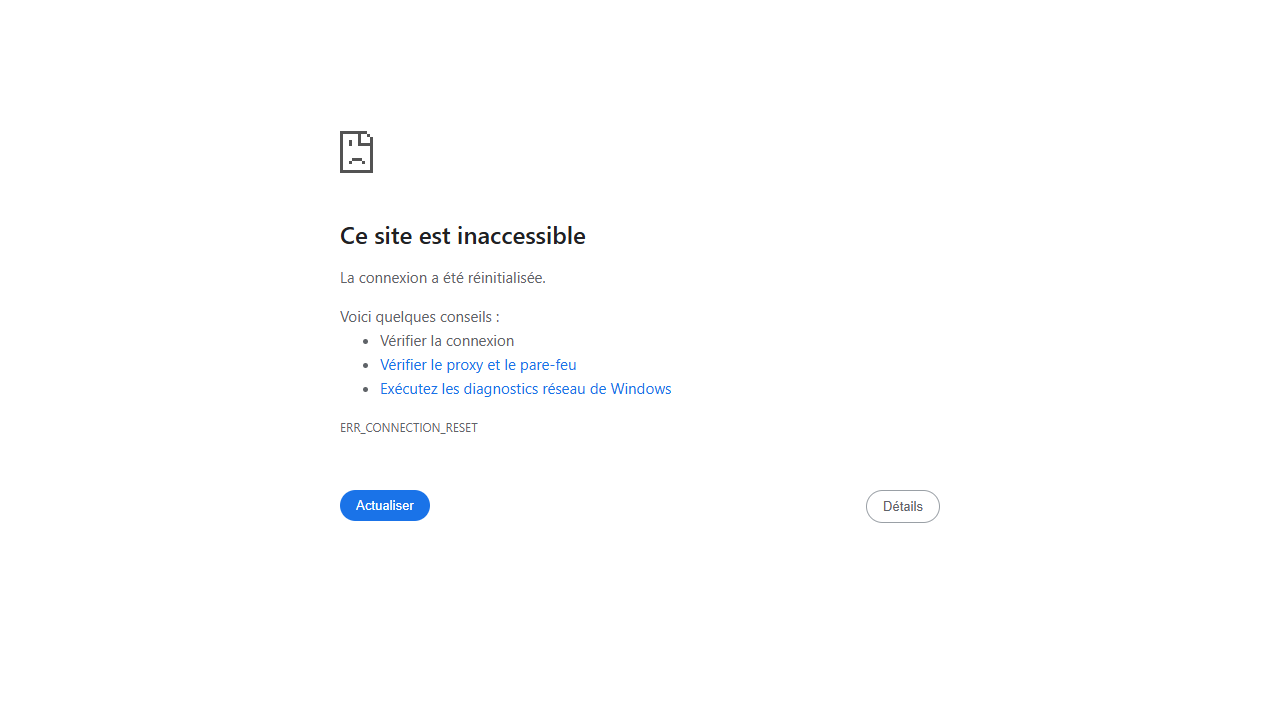
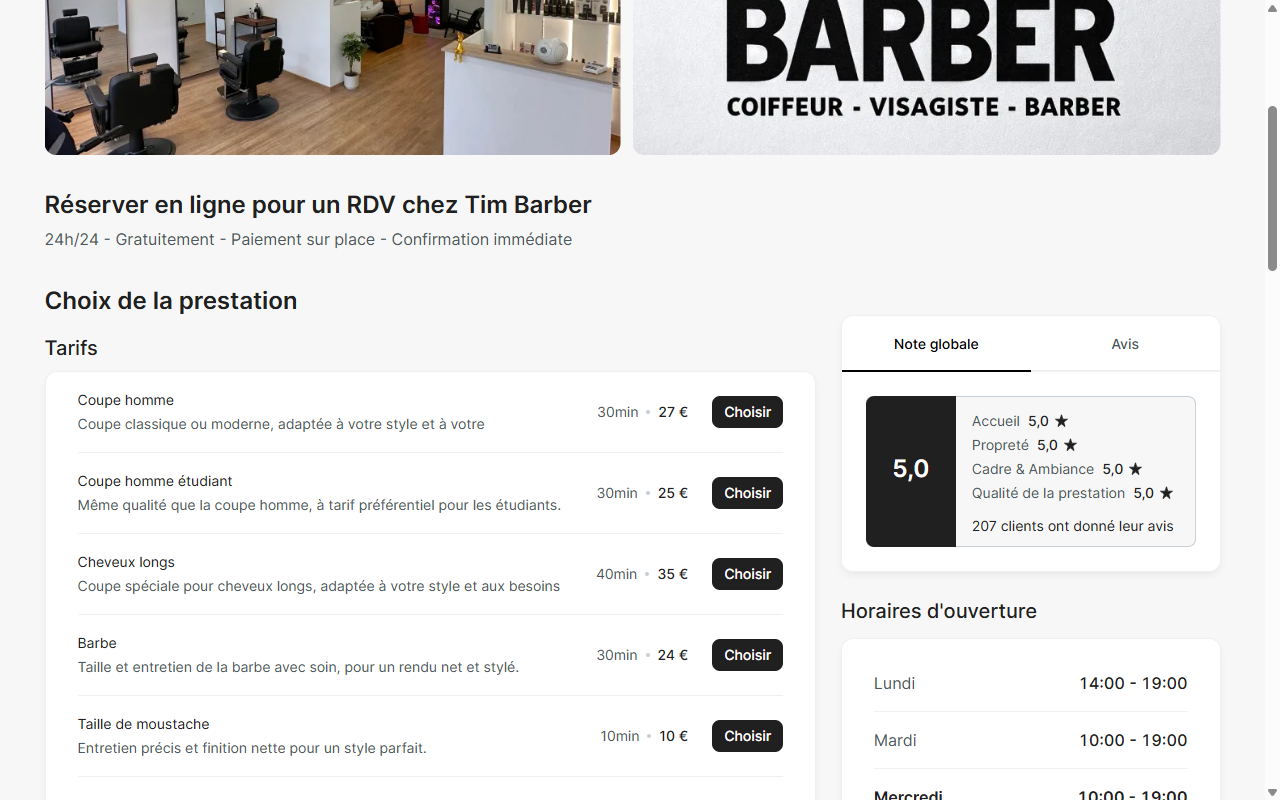
variable environnement, et api

diff --git a/scraper.js b/scraper.js
@@ -1,65 +1,270 @@
 const { chromium } = require('playwright');
 
-async function scrapeSalons() {
+const API_URL = process.env.SCRAPER_URL;
+const API_TOKEN = process.env.SCRAPER_TOKEN;
+const DEFAULT_DISCOUNT = 35;
 
-  const browser = await chromium.launch({ headless: false, slowMo: 500 });
-  const context = await browser.newContext({
-    userAgent: 'Mozilla/5.0 (Windows NT 10.0; Win64; x64) AppleWebKit/537.36 (KHTML, like Gecko) Chrome/120.0.0.0 Safari/537.36'
+const MONTH_INDEX = {
+  'janv.': 0,
+  'févr.': 1,
+  'mars':  2,
+  'avr.':  3,
+  'mai':   4,
+  'juin':  5,
+  'juil.': 6,
+  'août':  7,
+  'sept.': 8,
+  'oct.':  9,
+  'nov.':  10,
+  'déc.':  11,
+};
+
+/**
+ * Convertit une entrée brute du scraper en tableau de créneaux ISO.
+ * Entrée  : { date: "jeudi 02 juil.", slots: ["10:30", "11:00"] }
+ * Sortie  : [{ time: "2026-07-02T08:30:00.000Z", discount: 35 }, ...]
+ * (les heures sont en Europe/Paris, UTC+2 en été → on soustrait 2h pour l'ISO UTC)
+ */
+function formatSlots(planning) {
+  const year = new Date().getFullYear();
+  const formatted = [];
+
+  for (const entry of planning) {
+    const parts = entry.date.trim().split(/\s+/);
+    // parts ex: ["jeudi", "02", "juil."]  ou  ["02", "juil."]
+    const dayPart   = parts.find(p => /^\d{1,2}$/.test(p));
+    const monthPart = parts.find(p => MONTH_INDEX[p] !== undefined);
+
+    if (!dayPart || !monthPart) {
+      console.warn(`  ⚠ Date non reconnue, ignorée : "${entry.date}"`);
+      continue;
+    }
+
+    const day   = parseInt(dayPart, 10);
+    const month = MONTH_INDEX[monthPart];
+
+    for (const slot of entry.slots) {
+      const [hours, minutes] = slot.split(':').map(Number);
+      // Construit la date en heure locale Paris puis la convertit en UTC ISO
+      const localDate = new Date(year, month, day, hours, minutes, 0, 0);
+      formatted.push({
+        time: localDate.toISOString(),
+        discount: DEFAULT_DISCOUNT,
+      });
+    }
+  }
+
+  return formatted;
+}
+
+async function sendToApi(planityUrl, scrapedSlots) {
+  console.log(`\nEnvoi de ${scrapedSlots.length} créneau(x) vers l'API...`);
+
+  const response = await fetch(API_URL, {
+    method: 'POST',
+    headers: { 'Content-Type': 'application/json',  'Authorization': `Bearer ${API_TOKEN}` },
+    body: JSON.stringify({ planityUrl, scrapedSlots }),
   });
+
+  if (response.ok) {
+    const data = await response.json().catch(() => ({}));
+    console.log(`Synchro réussie ! (HTTP ${response.status})`);
+    if (Object.keys(data).length > 0) console.log('Réponse API :', JSON.stringify(data, null, 2));
+  } else {
+    const errorText = await response.text().catch(() => '');
+    console.error(`Erreur API (HTTP ${response.status}) : ${errorText}`);
+  }
+}
+
+function randomDelay(min = 300, max = 900) {
+  const ms = Math.floor(Math.random() * (max - min + 1)) + min;
+  return new Promise(resolve => setTimeout(resolve, ms));
+}
+
+function parseArgs() {
+  const args = process.argv.slice(2);
+  const urlFlag = args.indexOf('--url');
+  const prestationFlag = args.indexOf('--prestation');
+
+  const url = urlFlag !== -1 ? args[urlFlag + 1] : null;
+  const prestation = prestationFlag !== -1 ? args[prestationFlag + 1] : null;
+
+  if (!url || !prestation) {
+    console.error('Usage: node scraper.js --url <URL_DU_SALON> --prestation <NOM_DE_LA_PRESTATION>');
+    console.error('Exemple: node scraper.js --url "https://www.planity.com/salon-exemple" --prestation "Coupe Homme"');
+    process.exit(1);
+  }
+
+  return { url, prestation };
+}
+
+async function scrapeSalons() {
+  const { url, prestation } = parseArgs();
+
+  const browser = await chromium.launch({
+    headless: false,
+    args: [
+      '--disable-blink-features=AutomationControlled',
+      '--no-sandbox',
+      '--disable-setuid-sandbox',
+      '--disable-infobars',
+      '--disable-dev-shm-usage',
+      '--disable-accelerated-2d-canvas',
+      '--no-first-run',
+      '--no-zygote',
+      '--window-size=1280,800',
+      '--disable-features=IsolateOrigins,site-per-process',
+    ],
+  });
+
+  const context = await browser.newContext({
+    userAgent: 'Mozilla/5.0 (Windows NT 10.0; Win64; x64) AppleWebKit/537.36 (KHTML, like Gecko) Chrome/124.0.0.0 Safari/537.36',
+    viewport: { width: 1280, height: 800 },
+    locale: 'fr-FR',
+    timezoneId: 'Europe/Paris',
+    permissions: ['geolocation'],
+    extraHTTPHeaders: {
+      'Accept-Language': 'fr-FR,fr;q=0.9,en-US;q=0.8,en;q=0.7',
+      'Accept': 'text/html,application/xhtml+xml,application/xml;q=0.9,image/avif,image/webp,image/apng,*/*;q=0.8',
+      'Sec-Ch-Ua': '"Chromium";v="124", "Google Chrome";v="124", "Not-A.Brand";v="99"',
+      'Sec-Ch-Ua-Mobile': '?0',
+      'Sec-Ch-Ua-Platform': '"Windows"',
+      'Upgrade-Insecure-Requests': '1',
+    },
+  });
+
+  // Patch des propriétés navigator détectées par les anti-bots
+  await context.addInitScript(() => {
+    // Supprime le flag webdriver
+    Object.defineProperty(navigator, 'webdriver', { get: () => undefined });
+
+    // Simule des plugins réels
+    Object.defineProperty(navigator, 'plugins', {
+      get: () => {
+        const plugins = [
+          { name: 'Chrome PDF Plugin', filename: 'internal-pdf-viewer', description: 'Portable Document Format' },
+          { name: 'Chrome PDF Viewer', filename: 'mhjfbmdgcfjbbpaeojofohoefgiehjai', description: '' },
+          { name: 'Native Client', filename: 'internal-nacl-plugin', description: '' },
+        ];
+        plugins.refresh = () => {};
+        plugins.item = (i) => plugins[i];
+        plugins.namedItem = (name) => plugins.find(p => p.name === name);
+        Object.setPrototypeOf(plugins, PluginArray.prototype);
+        return plugins;
+      },
+    });
+
+    Object.defineProperty(navigator, 'languages', { get: () => ['fr-FR', 'fr', 'en-US', 'en'] });
+
+    // Simule l'objet window.chrome d'un vrai navigateur
+    if (!window.chrome) {
+      window.chrome = {
+        app: {
+          isInstalled: false,
+          InstallState: { DISABLED: 'disabled', INSTALLED: 'installed', NOT_INSTALLED: 'not_installed' },
+          RunningState: { CANNOT_RUN: 'cannot_run', READY_TO_RUN: 'ready_to_run', RUNNING: 'running' },
+        },
+        runtime: {},
+      };
+    }
+
+    // Masque la détection via les permissions
+    const originalQuery = window.navigator.permissions?.query;
+    if (originalQuery) {
+      window.navigator.permissions.query = (parameters) => {
+        if (parameters.name === 'notifications') {
+          return Promise.resolve({ state: Notification.permission });
+        }
+        return originalQuery(parameters);
+      };
+    }
+
+    // Résolution d'écran cohérente avec viewport
+    Object.defineProperty(screen, 'width', { get: () => 1280 });
+    Object.defineProperty(screen, 'height', { get: () => 800 });
+    Object.defineProperty(screen, 'availWidth', { get: () => 1280 });
+    Object.defineProperty(screen, 'availHeight', { get: () => 760 });
+    Object.defineProperty(screen, 'colorDepth', { get: () => 24 });
+    Object.defineProperty(screen, 'pixelDepth', { get: () => 24 });
+  });
+
   const page = await context.newPage();
 
   try {
-    console.log("Navigation vers l'accueil du salon...");
-    await page.goto('URL_DU_SALON', {
-      waitUntil: 'networkidle'
-    });
+    console.log(`Navigation vers l'accueil du salon : ${url}`);
+    await page.goto(url, { waitUntil: 'domcontentloaded', timeout: 30000 });
 
-  
+    // Simule un comportement humain après chargement
+    await randomDelay(800, 1500);
+    await page.mouse.move(
+      Math.floor(Math.random() * 400) + 200,
+      Math.floor(Math.random() * 300) + 100
+    );
+    await randomDelay(400, 800);
+
     const boutonCookie = page.locator('button:has-text("Accepter & Fermer")');
-    if (await boutonCookie.isVisible()) {
-        await boutonCookie.click();
-        console.log("Cookies acceptés.");
+    if (await boutonCookie.isVisible({ timeout: 4000 }).catch(() => false)) {
+      await randomDelay(500, 1000);
+      await boutonCookie.click();
+      console.log("Cookies acceptés.");
+      await randomDelay(600, 1200);
     }
 
+    console.log(`Recherche de la prestation : "${prestation}"`);
+    const boutonPrestation = page.locator(`span:has-text("${prestation}")`).first();
 
-    console.log("Recherche de la prestation");
-    const boutonCoupeHomme = page.locator('#button-choose-0-0.service-module_hideOnMobileOrTablet-Lfa6f');
+    await boutonPrestation.waitFor({ state: 'visible', timeout: 15000 });
+    await randomDelay(400, 900);
 
-    await boutonCoupeHomme.waitFor({ state: 'visible', timeout: 5000 });
-    await boutonCoupeHomme.click();
-    console.log("Prestation 'Coupe Homme' sélectionnée avec succès !");
+    // Déplace la souris vers le bouton avant de cliquer (comportement humain)
+    const box = await boutonPrestation.boundingBox();
+    if (box) {
+      await page.mouse.move(
+        box.x + box.width / 2 + (Math.random() * 6 - 3),
+        box.y + box.height / 2 + (Math.random() * 6 - 3),
+        { steps: 10 }
+      );
+      await randomDelay(100, 300);
+    }
+    await boutonPrestation.click();
+    console.log(`Prestation "${prestation}" sélectionnée avec succès !`);
 
     console.log("Attente du chargement des horaires...");
-    
-    await page.waitForSelector('.page-module_dayWrapper-vmw33', { timeout: 7000 });
+    await page.waitForSelector('.page-module_dayWrapper-vmw33', { timeout: 15000 });
+    await randomDelay(500, 1000);
 
     const planning = await page.evaluate(() => {
-  
-        const dayBlocks = document.querySelectorAll('.page-module_dayWrapper-vmw33');
-        const results = [];
+      const dayBlocks = document.querySelectorAll('.page-module_dayWrapper-vmw33');
+      const results = [];
 
-        dayBlocks.forEach(block => {
-    
-            const dayText = block.querySelector('.page-module_day-5m7pD')?.innerText.trim() || '';
-            const dateText = block.querySelector('.page-module_date-qFRuO')?.innerText.trim() || '';
-            const fullDate = `${dayText} ${dateText}`.trim();
+      dayBlocks.forEach(block => {
+        const dayText = block.querySelector('.page-module_day-5m7pD')?.innerText.trim() || '';
+        const dateText = block.querySelector('.page-module_date-qFRuO')?.innerText.trim() || '';
+        const fullDate = `${dayText} ${dateText}`.trim();
 
-            const hourButtons = block.querySelectorAll('.page-module_hourWithIcon-YXOEm');
-            const slots = Array.from(hourButtons).map(btn => btn.innerText.trim());
+        const hourButtons = block.querySelectorAll('.page-module_hourWithIcon-YXOEm');
+        const slots = Array.from(hourButtons).map(btn => btn.innerText.trim());
 
-            if (fullDate) {
-                results.push({
-                    date: fullDate,
-                    slots: slots // Tableau d'heures, vide si le salon est fermé ou complet
-                });
-            }
-        });
+        if (fullDate) {
+          results.push({ date: fullDate, slots });
+        }
+      });
 
-        return results;
+      return results;
     });
 
-    console.log("=== CRÉNEAUX DISPONIBLES STRUCTURÉS POUR UNE COUPE HOMME ===");
+    console.log(`=== CRÉNEAUX BRUTS POUR "${prestation.toUpperCase()}" ===`);
     console.log(JSON.stringify(planning, null, 2));
+
+    const scrapedSlots = formatSlots(planning);
+    console.log(`\n=== CRÉNEAUX FORMATÉS (${scrapedSlots.length} au total) ===`);
+    console.log(JSON.stringify(scrapedSlots, null, 2));
+
+    if (scrapedSlots.length > 0) {
+      await sendToApi(url, scrapedSlots);
+    } else {
+      console.log('\nAucun créneau disponible, rien à envoyer.');
+    }
 
   } catch (error) {
     console.error("Erreur pendant le scraping :", error.message);
